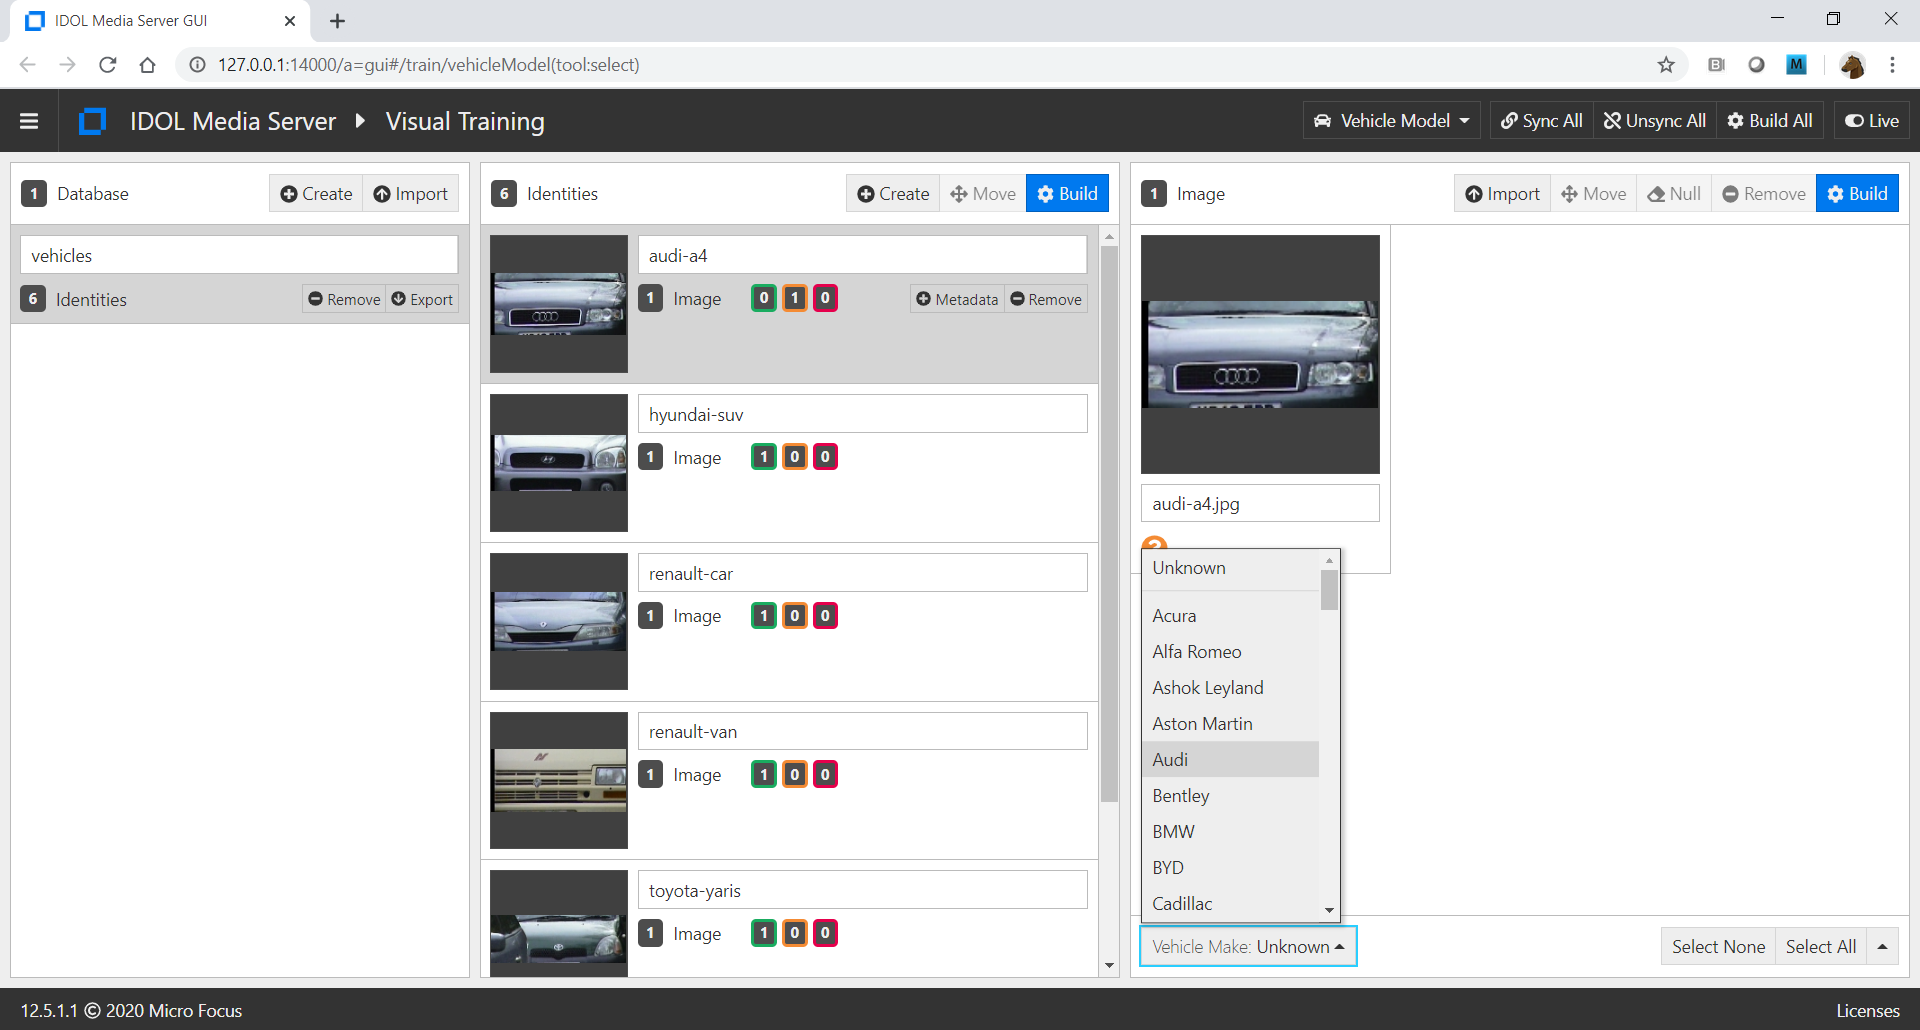
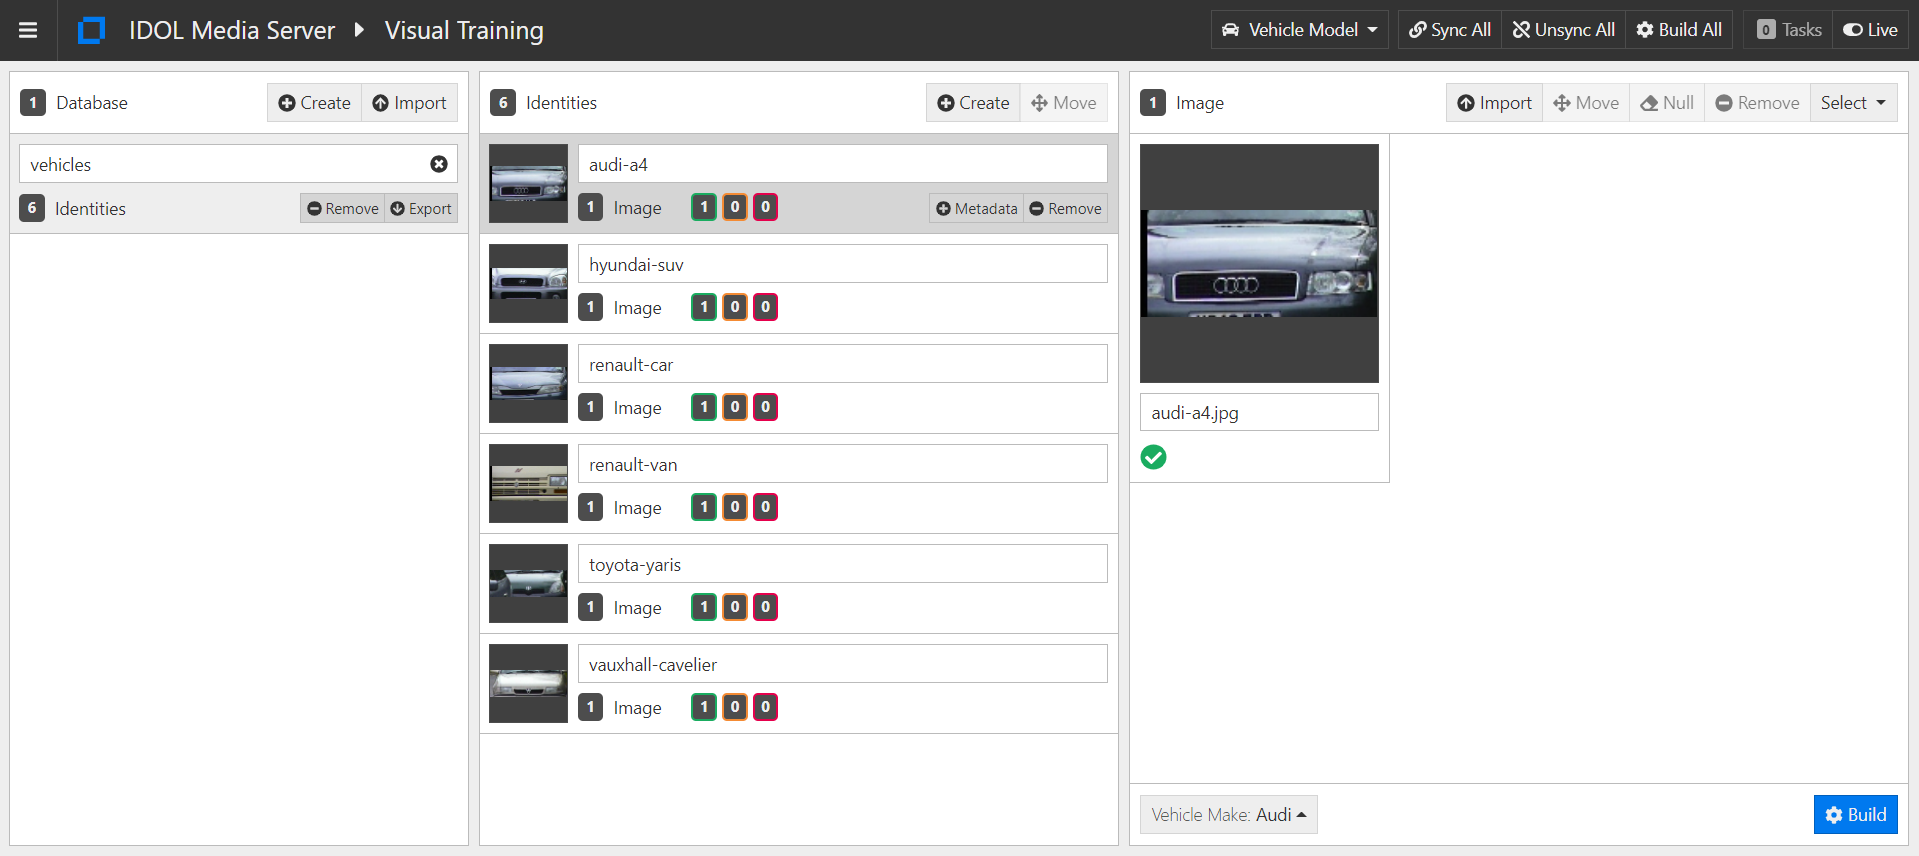
Updated vehicle analysis tutorial to include new vehicle bounding box detection for color analysis

diff --git a/tutorials/showcase/vehicle-analysis/README.md b/tutorials/showcase/vehicle-analysis/README.md
@@ -2,7 +2,7 @@
 
 Media Server includes a *NumberPlate* analysis engine, which can be configured to read number (license) plates from over 100 countries and states around the world.  With analysis chaining, the vehicle make, model and color can also be determined.
 
-We will:
+In this tutorial we will:
 
 1. use the *NumberPlate* analysis engine to read Saudi number plates in a video from a moving vehicle
 1. identify vehicle make and model
@@ -10,20 +10,19 @@ We will:
 
 This guide assumes you have already completed the [introductory tutorial](../../README.md#introduction).
 
-<!-- TOC -->
+<!-- TOC depthFrom:2 -->
 
-- [Vehicle analysis](#vehicle-analysis)
-  - [Setup](#setup)
-    - [Configure vehicle analysis](#configure-vehicle-analysis)
-      - [Enabled modules](#enabled-modules)
-      - [Licensed channels](#licensed-channels)
-  - [Process configuration](#process-configuration)
-  - [Making changes](#making-changes)
-  - [Training vehicle analysis](#training-vehicle-analysis)
-    - [Vehicle makes](#vehicle-makes)
-    - [Training vehicle models (*Optional*)](#training-vehicle-models-optional)
-  - [Processing video](#processing-video)
-  - [Next steps](#next-steps)
+- [Setup](#setup)
+  - [Configure vehicle analysis](#configure-vehicle-analysis)
+    - [Enabled modules](#enabled-modules)
+    - [Licensed channels](#licensed-channels)
+- [Process configuration](#process-configuration)
+- [Making changes](#making-changes)
+- [Training vehicle analysis](#training-vehicle-analysis)
+  - [Vehicle makes](#vehicle-makes)
+  - [Training vehicle models (*Optional*)](#training-vehicle-models-optional)
+- [Processing video](#processing-video)
+- [Next steps](#next-steps)
 
 <!-- /TOC -->
 
@@ -65,7 +64,7 @@ VisualChannels=1
 
 Media Server ships with a number of sample configurations, including some for number plate and vehicle analysis.  We will use the example `configurations/examples/VehicleModel/WithColor.cfg`, which configures the required analysis engines, as well as engines to output XML alerts and to encode images of the detected number plates.
 
-This includes the minimal configuration for number plate recognition, which requires only that you set a location, *i.e.* GB for the United Kingdom.
+This file already includes the minimal configuration for number plate recognition, which requires only that you set a location, *i.e.* `GB` for the United Kingdom.
 
 ```ini
 [Anpr]
@@ -73,68 +72,70 @@ Type = numberplate
 Location = GB
 ```
 
-You can also set multiple locations here, with or without weightings to indicate the relative likelihood of seeing a plate form that location:
+> You can also set multiple locations with or without weightings to indicate the relative likelihood of seeing a plate form that location:
+> 
+> ```ini
+> Location=FR,BE,DE
+> ```
+> 
+> or
+> 
+> ```ini
+> LocationWithPriorities=FR:1.0,BE:0.1,DE:0.01
+> ```
 
-```ini
-Location=FR,DE,BE
-```
-
-or
-
-```ini
-LocationWithPriorities=FR:1.0,DE:0.1,BE:0.01
-```
-
-This minimal configuration uses the following default options, which can be read about in detail in the [reference guide](https://www.microfocus.com/documentation/idol/IDOL_12_8/MediaServer_12.8_Documentation/Help/index.html#Configuration/Analysis/ANPR/_NumberPlate.htm) and are shown here grouped by their functions.
+This minimal configuration quietly uses the following default options, which can be read about in detail in the [reference guide](https://www.microfocus.com/documentation/idol/IDOL_12_8/MediaServer_12.8_Documentation/Help/index.html#Configuration/Analysis/ANPR/_NumberPlate.htm) and are shown here grouped by their functions.
 
 ```ini
 # Detection of plates
 Boldness = 17
-ExpectedRotation = 0.0 # degrees (clockwise) from horizontal
+ExpectedRotation = 0.0 # degrees (clockwise from horizontal)
 MaxCharHeight = 96 # pixels
 MaxPlatesPerFrame = 3
 MinCharheight = 12 # pixels
 Sensitivity = 10
 
 # Processing
+MaxInputQueueLength = # time duration (not set = no limit)
 NumParallel = 1
 SampleInterval = 1ms
 
 # Integration
 MinRead = 2
 
-# Output
+# Filtering
 MinValidScore = 92
 OutputAlternativeResults = False
 OutputUnformattedResults = False
 RejectReadsWithInvalidGaps = True
 ```
 
-In addition to these parameters it is also possible to set a region of interest in which the analysis will work.  This can be a simple rectangle, specified by `Region` or any polygon, specified by `FreeFormRegion`.
+In addition to these parameters it is also possible to set a region of interest in which the analysis will work.  This can be a rectangle, specified by `Region` or a polygon, specified by `FreeFormRegion`.
 
 Once a number plate has been detected, we can usually safely assume a vehicle has also been found.  With Media Server's analysis chaining, we can use this location to feed additional analytic engines:
 
 - The *VehicleRecognition* analysis engine, which:
   - recognizes one of the pre-trained vehicle makes, *i.e.* "Tesla"
-  - can optionally be trained to match against specific vehicle models, *i.e.* "Model S"
+  - (*optionally*) can be trained to match against specific vehicle models, *i.e.* "Model S"
+  - outputs a bounding box for the vehicle on which the plate is detected for further analysis.
 
   ```ini
   [VehicleMakeModel]
   Type = vehiclemodel
   Input = Anpr.DataWithSource
-  Database=vehicles
+  Database = vehicles
   ```
 
 - The *ColorCluster* analysis engine can be used here (similarly to how we used it analyse clothing in the [introductory tutorial](../../introduction/PART_II.md#run-face-and-clothing-analysis)) to:
-  - identify the main colors in a patch above the plate
+  - identify the main colors of the detected vehicle
   - to match the main detected colors to a dictionary of predefined colors
 
   ```ini
   [ColorAnalysis]
   Type = colorcluster
   Input = VehicleMakeModel.ColorRegionWithSource
-  ColorDictionary=carcolors.dat
-  RestrictToInputRegion=true
+  Region = input
+  ColorDictionary = weightedcarcolors.dat
   ```
 
 ## Making changes
@@ -143,40 +144,41 @@ Let's create our own copy to work on `configurations/examples/VehicleModel/WithC
 
 1. Reduce the input data rate for vehicle analysis by changing its input from the *data* to the *result* track of the number plate engine:
 
-  ```ini
-  [VehicleMakeModel]
-  Type = vehiclemodel
-  Input = Anpr.ResultWithSource
+  ```diff
+    [VehicleMakeModel]
+    Type = vehiclemodel
+  - Input = Anpr.DataWithSource
+  + Input = Anpr.ResultWithSource
   ```
 
-1. Attach some additional tracks to a dummy engine so that they will be *in use* and therefore visible in the Activity page:
+1. Attach some additional tracks to a dummy engine so that they will be *in use* and therefore available for live monitoring:
 
-  ```ini
-  [Session]
-  ...
-  Engine8 = AnprFrameOutput
-  Engine9 = Keep
+  ```diff
+    [Session]
+    ...
+    Engine8 = AnprFrameOutput
+  + Engine9 = Keep
 
-  ...
+    ...
 
-  [Keep]
-  Type = Combine
-  Input0 = VehicleMakeModel.DataWithSource
-  Input1 = VehicleMakeModel.ResultWithSource
-  Input2 = VehicleMakeModel.VehicleMakeImage
-  Input3 = Anpr.Start
-  Input4 = Anpr.DataWithSource
-  Input5 = Anpr.End
-  Input6 = ColorAnalysis.ClusteredImage
+  + [Keep]
+  + Type = Combine
+  + Input0 = VehicleMakeModel.DataWithSource
+  + Input1 = VehicleMakeModel.ResultWithSource
+  + Input2 = VehicleMakeModel.VehicleMakeImage
+  + Input3 = Anpr.Start
+  + Input4 = Anpr.DataWithSource
+  + Input5 = Anpr.End
+  + Input6 = ColorAnalysis.ClusteredImage
   ```
 
-1. Finally, since we are ingesting a video file, we should remember to set the `IngestRate` parameter so that we process all frames repeatably:
+1. Finally, since we are ingesting a video file, we should remember to set the `IngestRate` parameter so that we process every frame in a reproducible way:
 
-  ```ini
-  [Session]
-  ...
-  Engine9 = Keep
-  IngestRate = 0
+  ```diff
+    [Session]
+    ...
+    Engine9 = Keep
+  + IngestRate = 0
   ```
 
 ## Training vehicle analysis
@@ -197,11 +199,11 @@ Open the training web app at [`/action=gui`](http://127.0.0.1:14000/a=gui#/train
 1. on the right, click `Import` to import images
     - On your file system, navigate to the `vehicles` directory to select the vehicle image provided
     - select the appropriate vehicle make from the drop-up list below your image thumbnail(s).  If your make is not listed, select *Unknown*
-1. on the center column menu bar, click `Build` to train all vehicle models
+1. on the top-right menu bar, click `Build All` to train all vehicle models
 
 ![vehicle-training](./figs/vehicle-training.png)
 
-> Cameras that are positioned directly above the traffic are better suited for recognition because they capture images where the vehicles approach head-on.  For further recommendations about image quality, and for instructions to collect your own vehicle model training images, read the [admin guide](https://www.microfocus.com/documentation/idol/IDOL_12_8/MediaServer_12.8_Documentation/Guides/html/index.html#Operations/Analyze/Vehicle_Model_Training.htm).
+> Tip: Cameras that are positioned on a gantry over the traffic are best suited for recognition because they capture images where the vehicles approach head-on.  For further recommendations about image quality, and for instructions to collect your own vehicle model training images, read the [admin guide](https://www.microfocus.com/documentation/idol/IDOL_12_8/MediaServer_12.8_Documentation/Guides/html/index.html#Operations/Analyze/Vehicle_Model_Training.htm).
 
 ## Processing video
 
@@ -211,11 +213,15 @@ Paste the following parameters into [`test-action`](http://127.0.0.1:14000/a=adm
 action=process&source=C:/MicroFocus/idol-rich-media-tutorials/tutorials/showcase/vehicle-analysis/vehicles.mp4&configName=examples/VehicleModel/WithColor2
 ```
 
-Click `Test Action` to start processing.
+Click `Test Action` to start processing, then review the running process with [`/action=gui`](http://127.0.0.1:14000/a=gui#monitor).
 
-Review the results with [`/action=activity`](http://127.0.0.1:14000/a=activity), then go to `output` to see the saved image files and XML.  These will be written in a sub-directory named after the uuid of the session, so look for the newest folder.
+Note the bounding box detected for the vehicle carrying the plate:
 
-Wait for the video to finish processing, or stop early with [`stop`](http://127.0.0.1:14000/a=queueInfo&queueAction=stop&queueName=process).
+![vehicle-box](./figs/vehicle-box.png)
+
+![vehicle-color](./figs/vehicle-color.png)
+
+Wait for the video to finish processing, or stop early with [`stop`](http://127.0.0.1:14000/a=queueInfo&queueAction=stop&queueName=process), then go to your Media Server's `output` folder to see the saved image files and XML.  These will be written in a sub-directory named after the uuid of the session, so look for the newest folder.
 
 ## Next steps
 

diff --git a/tutorials/showcase/surveillance/README.md b/tutorials/showcase/surveillance/README.md
@@ -11,7 +11,7 @@ Alert rules can be built to analyse the location and movement of these detected 
 - Illegal turning
 - *and many more*.
 
-We will:
+In this tutorial we will:
 
 1. use the Media Server GUI to import pre-trained models to enable recognition of common surveillance objects,
 1. run a process action to create a video with overlayed tracking information for people and vehicles, and
@@ -19,7 +19,7 @@ We will:
 
 This guide assumes you have already completed the [introductory tutorial](../../README.md#introduction).
 
-<!-- TOC -->
+<!-- TOC depthFrom:2 -->
 
 - [Surveillance analysis](#surveillance-analysis)
   - [Setup](#setup)

diff --git a/tutorials/showcase/logo-recognition/README.md b/tutorials/showcase/logo-recognition/README.md
@@ -4,7 +4,7 @@ Media Server includes an Object Recognition analysis engine, which can be traine
 
 For a more detailed introduction to Object Recognition, see the [admin guide](https://www.microfocus.com/documentation/idol/IDOL_12_8/MediaServer_12.8_Documentation/Guides/html/index.html#Operations/Analyze/ObjectRecognition_Introduction.htm).
 
-We will:
+In this tutorial we will:
 
 1. use the Object Recognition analysis engine to train Objects and identify them in a video from a football match
 1. use transform and image encoding engines to save cropped images of the Objects we find

diff --git a/tutorials/showcase/speech-transcription/PART_I.md b/tutorials/showcase/speech-transcription/PART_I.md
@@ -2,7 +2,7 @@
 
 Media Server can be used to perform audio analytics, including speech transcription (often called Speech-to-Text), speaker identification and language identification.  We will configure Media Server to support a simple use case of this speech transcription capability: to record video clips from on a live news broadcast stream and automatically generate subtitles for those clips.
 
-We will:
+In this tutorial we will:
 
 1. configure a speech language pack and run speech transcription
 1. record video clips from a live stream

diff --git a/tutorials/showcase/speech-transcription/PART_II.md b/tutorials/showcase/speech-transcription/PART_II.md
@@ -4,7 +4,7 @@ The language models that ship with Media Server cover a broad vocabulary, reflec
 
 Media Server enables us to build custom language models, which can be used to improve the quality of a transcribed speech related to a specific domain.
 
-We will:
+In this tutorial we will:
 
 1. transcribe text from a news clip discussing political affairs in Libya
 1. build a custom language model from news articles about Libyan politicians and cities

diff --git a/tutorials/showcase/id-card-ocr/README.md b/tutorials/showcase/id-card-ocr/README.md
@@ -4,7 +4,7 @@ Media Server includes an Optical Character Recognition (OCR) analysis engine, wh
 
 For a detailed introduction to Optical Character Recognition, see the [admin guide](https://www.microfocus.com/documentation/idol/IDOL_12_8/MediaServer_12.8_Documentation/Guides/html/index.html#Operations/Analyze/OCR_overview.htm).
 
-We will:
+In this tutorial we will:
 
 1. use the OCR analysis engine to read the text from an image of an ID card
 

diff --git a/tutorials/introduction/PART_IV.md b/tutorials/introduction/PART_IV.md
@@ -1,6 +1,6 @@
 # PART IV - People counting: an example of app integration
 
-We will:
+In this tutorial we will:
 
 1. run a simple *people counting* application (using `node.js`) that makes use of Media Server as an analytical service
 1. create a template process configuration file to be customized at runtime by the app

diff --git a/tutorials/introduction/PART_II.md b/tutorials/introduction/PART_II.md
@@ -1,6 +1,6 @@
 # PART II - More face analytics
 
-We will:
+In this tutorial we will:
 
 1. chain analytics, *i.e.* use the output of face detection as input to other analytics
 1. filter analysis output tracks using event processing to control the input rate to other analytics

diff --git a/tutorials/introduction/PART_I.md b/tutorials/introduction/PART_I.md
@@ -1,6 +1,6 @@
 # PART I - Getting started with face detection
 
-We will:
+In this tutorial we will:
 
 1. connect to and ingest video from a webcam
 1. use the *FaceDetect* analysis engine to track people seen by the webcam

diff --git a/tutorials/introduction/PART_III.md b/tutorials/introduction/PART_III.md
@@ -1,6 +1,6 @@
 # PART III - Face recognition
 
-We will:
+In this tutorial we will:
 
 1. train faces and use the `FaceRecognize` analysis engine to match them
 1. match your identity from your webcam
